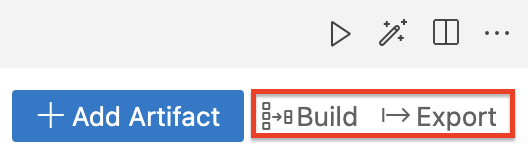
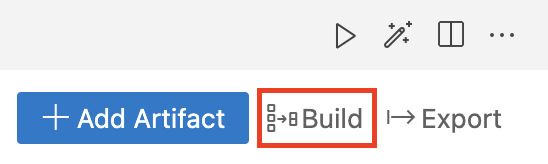
Fix the issues in the quick start guide

diff --git a/en/docs/get-started/quick-start-guide.md b/en/docs/get-started/quick-start-guide.md
@@ -95,7 +95,7 @@ The following software and configurations are required to proceed with this tuto
 1. Navigate to the `<MI_QSG_HOME>` directory. 
 The following project files and executable back-end services are available in the `<MI_QSG_HOME>`.
 
-    - **HealthcareIntegrationProject**: This folder contains the integration artifacts for the healthcare service. This service consists of the following REST API:
+    - **HealthcareIntegrationProject**: This folder contains the integration artifacts for the healthcare service. You may open the` <MI_QSG_HOME>/HealthcareIntegrationProject` in Visual Studio Code and expand the folders `APIs/HealthcareAPI` and click on the API listed there. This service consists of the following REST API:
 
         <img src="{{base_path}}/assets/img/develop/mi-for-vscode/qsg/final-resource-view.png" alt="Final resource view"></a>
 
@@ -143,7 +143,7 @@ The following project files and executable back-end services are available in th
                 ```
         </details>
 
-    - **Backend**: This contains an executable .jar file that contains mock back-end service implementations for the Pine Valley Hospital and Grand Oak Hospital.
+    - **Backend**: This contains an executable `.jar` file named `DoctorInfo.jar` that contains mock back-end service implementations for the Pine Valley Hospital and Grand Oak Hospital.
 
 ## Step 2 - Run the integration artifacts
 
@@ -166,12 +166,16 @@ Click the **Build and Run** icon located in the top right corner of VS Code.
     b. Click the **Build** icon located in the top right corner of VS Code.
     
     <a href="{{base_path}}/assets/img/develop/mi-for-vscode/qsg/build-and-export.png"><img src="{{base_path}}/assets/img/develop/mi-for-vscode/qsg/build-and-export.png" alt="Build and export" width="25%"></a>
+
+    c. Select the `Build CAPP` option.
+
+   <a href="{{base_path}}/assets/img/develop/mi-for-vscode/qsg/build-and-export.png"><img src="{{base_path}}/assets/img/develop/mi-for-vscode/qsg/build-capp-option.png" alt="Build the CAPP" width="25%"></a>
+
+    d. Click the **Export** icon next to the **Build** icon once the build is successful.
     
-    c. Click the **Export** icon next to the **Build** icon.
+    e. Select a destination to export the `.car` file.
     
-    d. Select a destination to export the `.car` file.
-    
-    e. Once you select a folder, the artifacts will be exported as a deployable CAR file to that location.
+    f. Once you select a folder, the artifacts will be exported as a deployable CAR file to that location.
 
 2. Deploy the Healthcare service: Copy the exported CAR file of the Healthcare service to the `<MI_HOME>/repository/deployment/server/carbonapps` directory.
 
